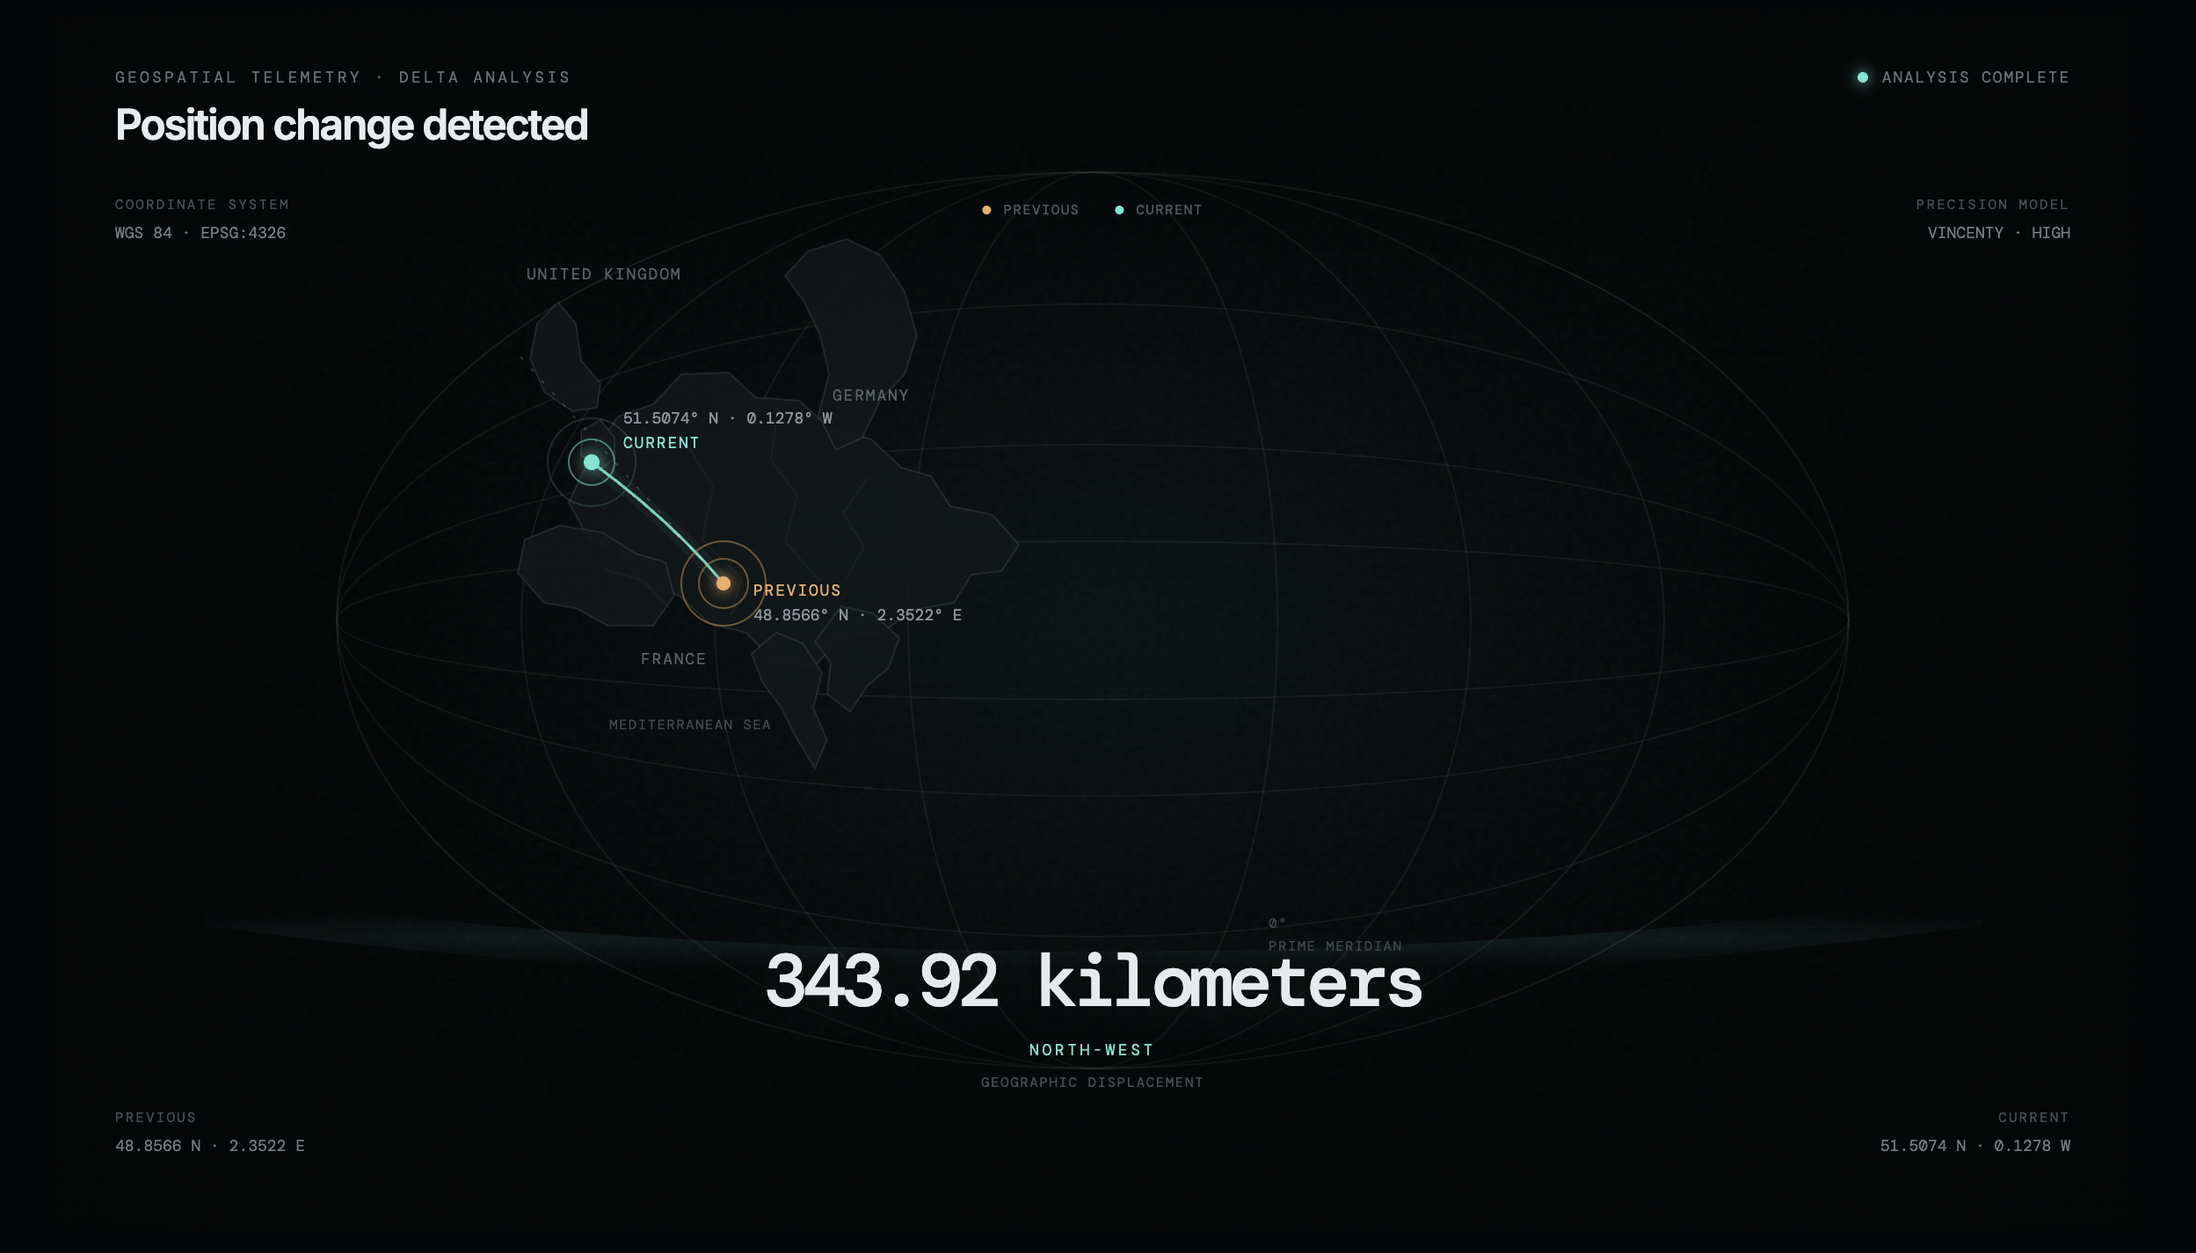
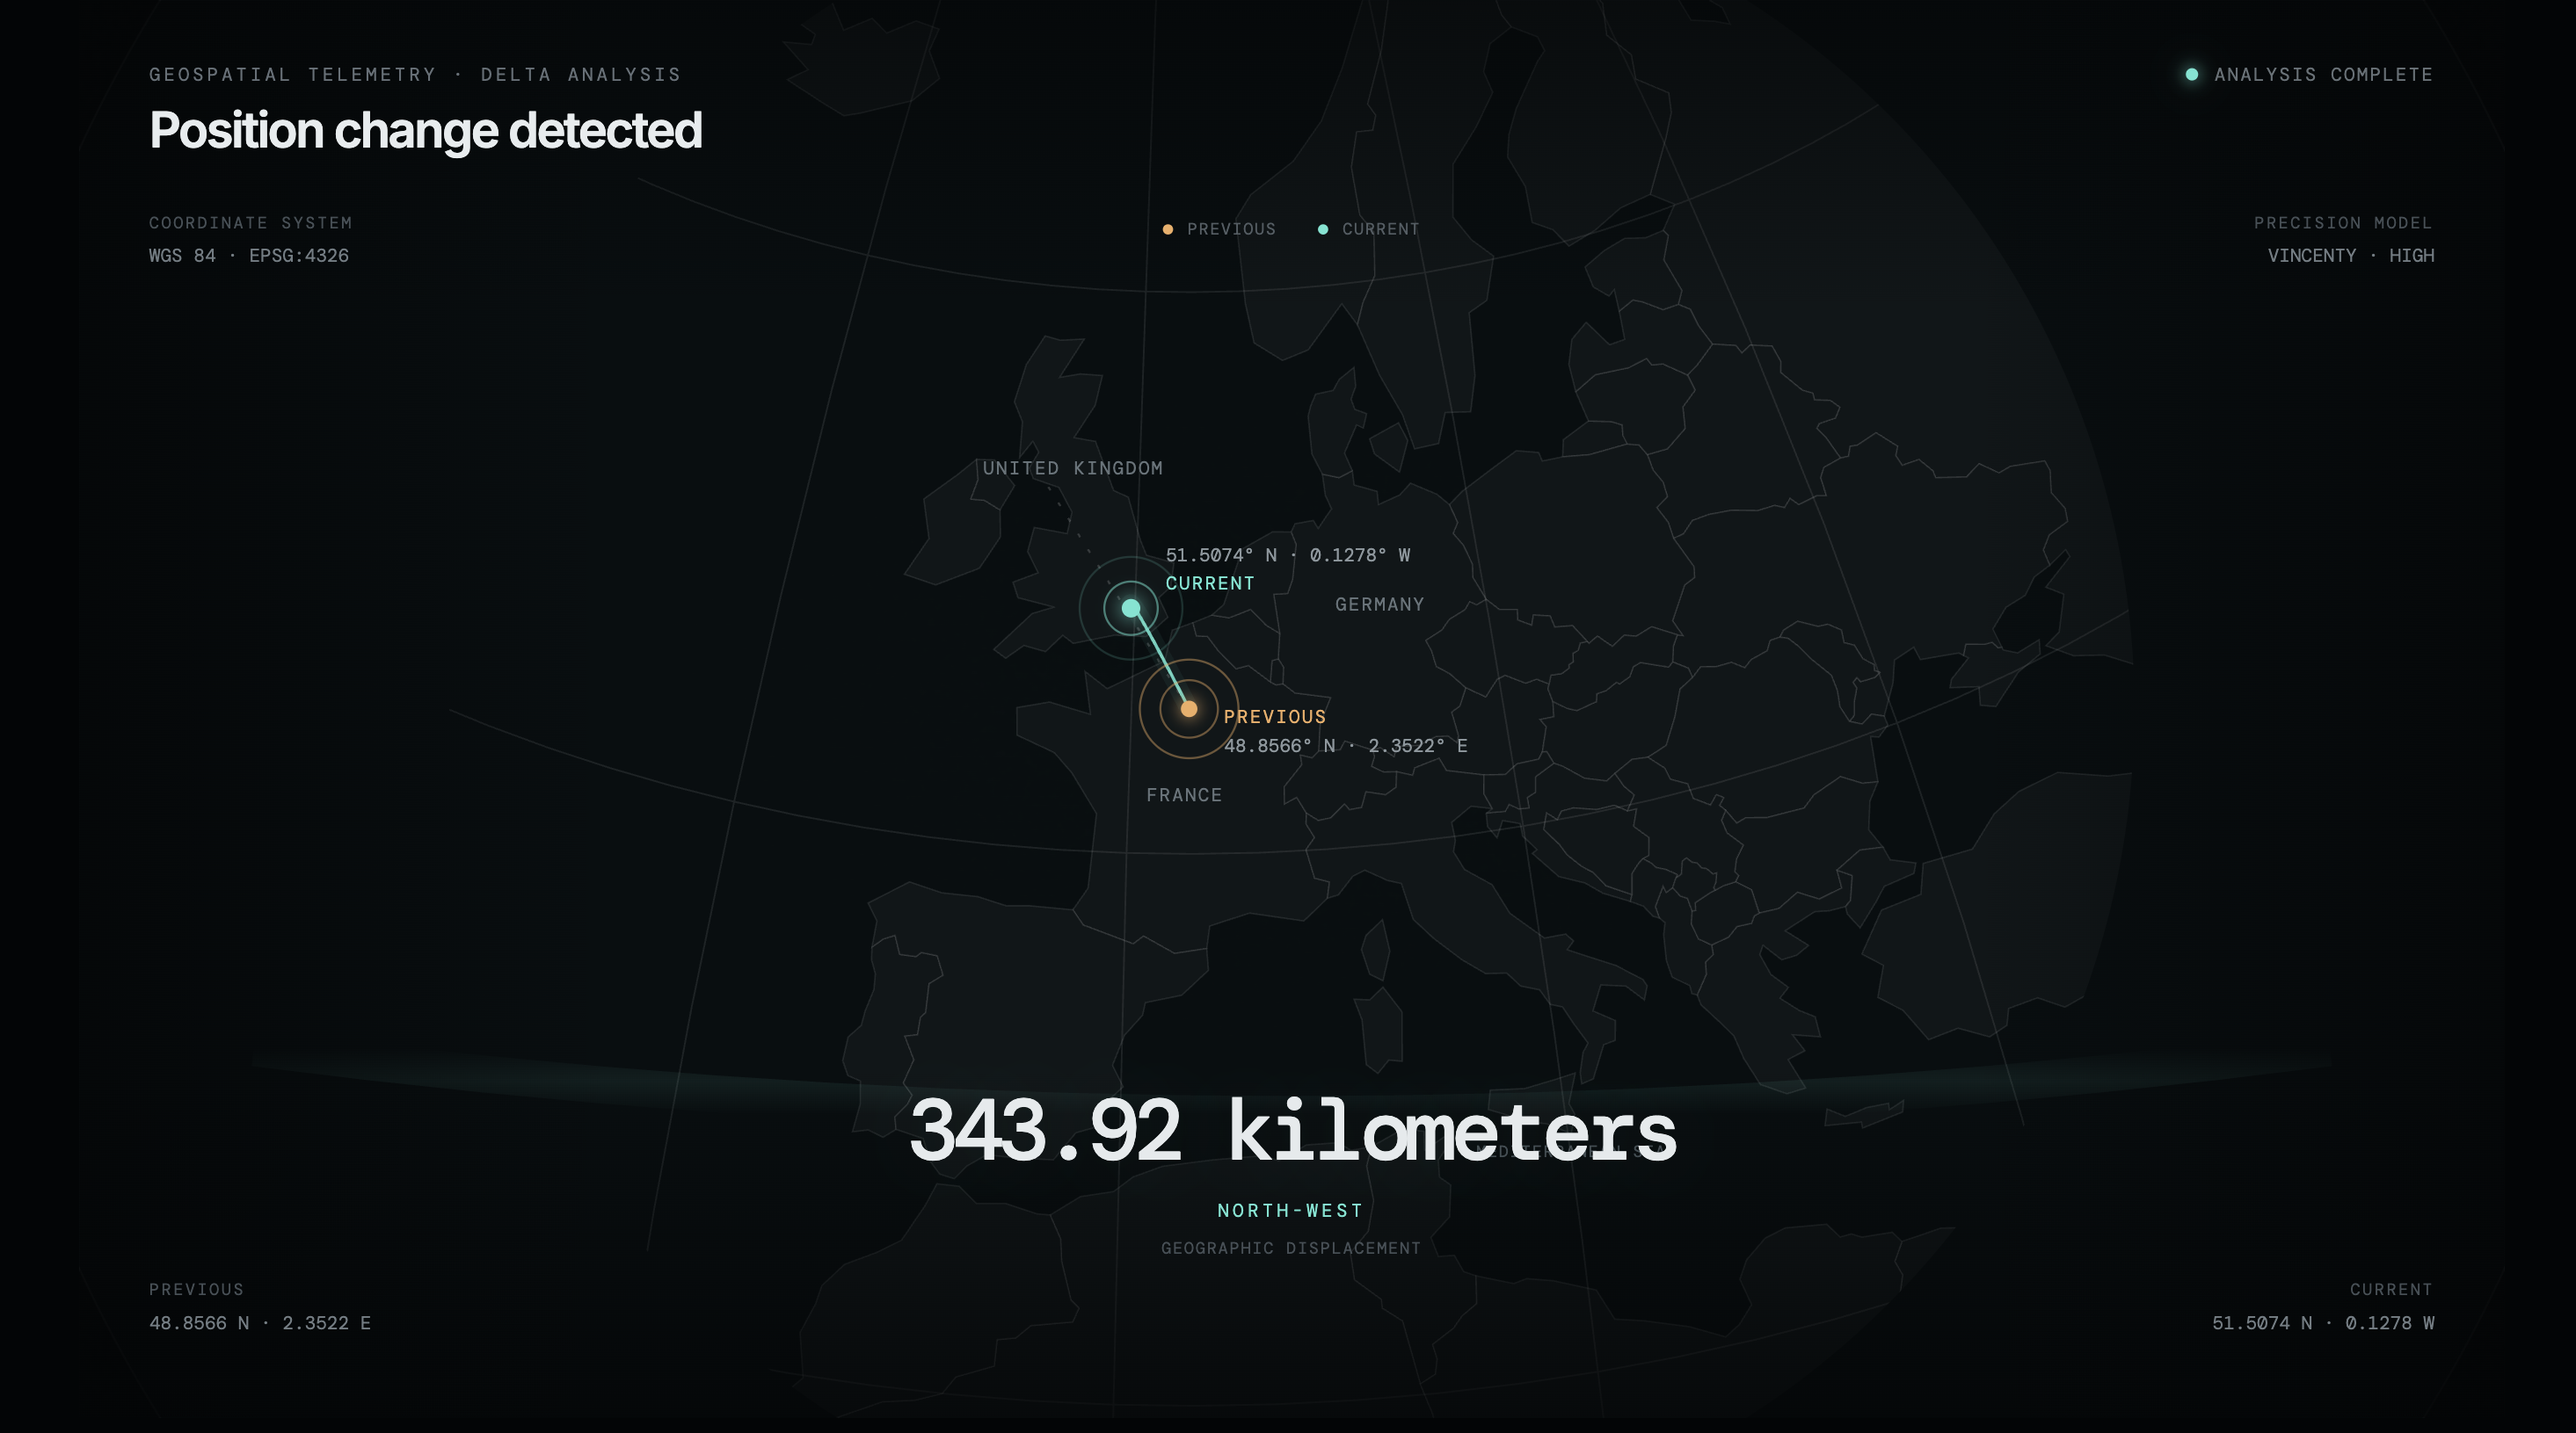
chore: update readme (#50)

diff --git a/README.md b/README.md
@@ -29,23 +29,26 @@
 
 <hr/>
 
-![superdiff-stream-gif](https://raw.githubusercontent.com/DoneDeal0/superdiff/main/assets/stream-list-diff.gif)
+## EXAMPLES
+
+![superdiff-stream-gif](https://raw.githubusercontent.com/DoneDeal0/main/superdiff/main/assets/stream-list-diff.gif)
 
 <p align="center">
-<sub>Superdiff smoothly comparing 1.8 million fictional votes in real time using <code>streamListDiff</code> in the browser</sub>
+<sub>Comparing millions of entries in real time with <code>streamListDiff</code></sub>
 </p>
 
 ![superdiff-text-diff-demo](https://raw.githubusercontent.com/DoneDeal0/superdiff/main/assets/text-diff-demo.png)
 
 <p align="center">
-<sub>Detecting text changes using <code>getTextDiff</code></sub>
+<sub>Detecting text changes with <code>getTextDiff</code></sub>
 </p>
 
 ![superdiff-geo-diff-demo](https://raw.githubusercontent.com/DoneDeal0/superdiff/main/assets/geo-diff-demo.png)
 
 <p align="center">
-<sub>Detecting coordinates changes using <code>getGeoDiff</code></sub>
+<sub>Tracking coordinate changes with <code>getGeoDiff</code></sub>
 </p>
+
 <hr/>
 
 ## ⚔ COMPETITORS
